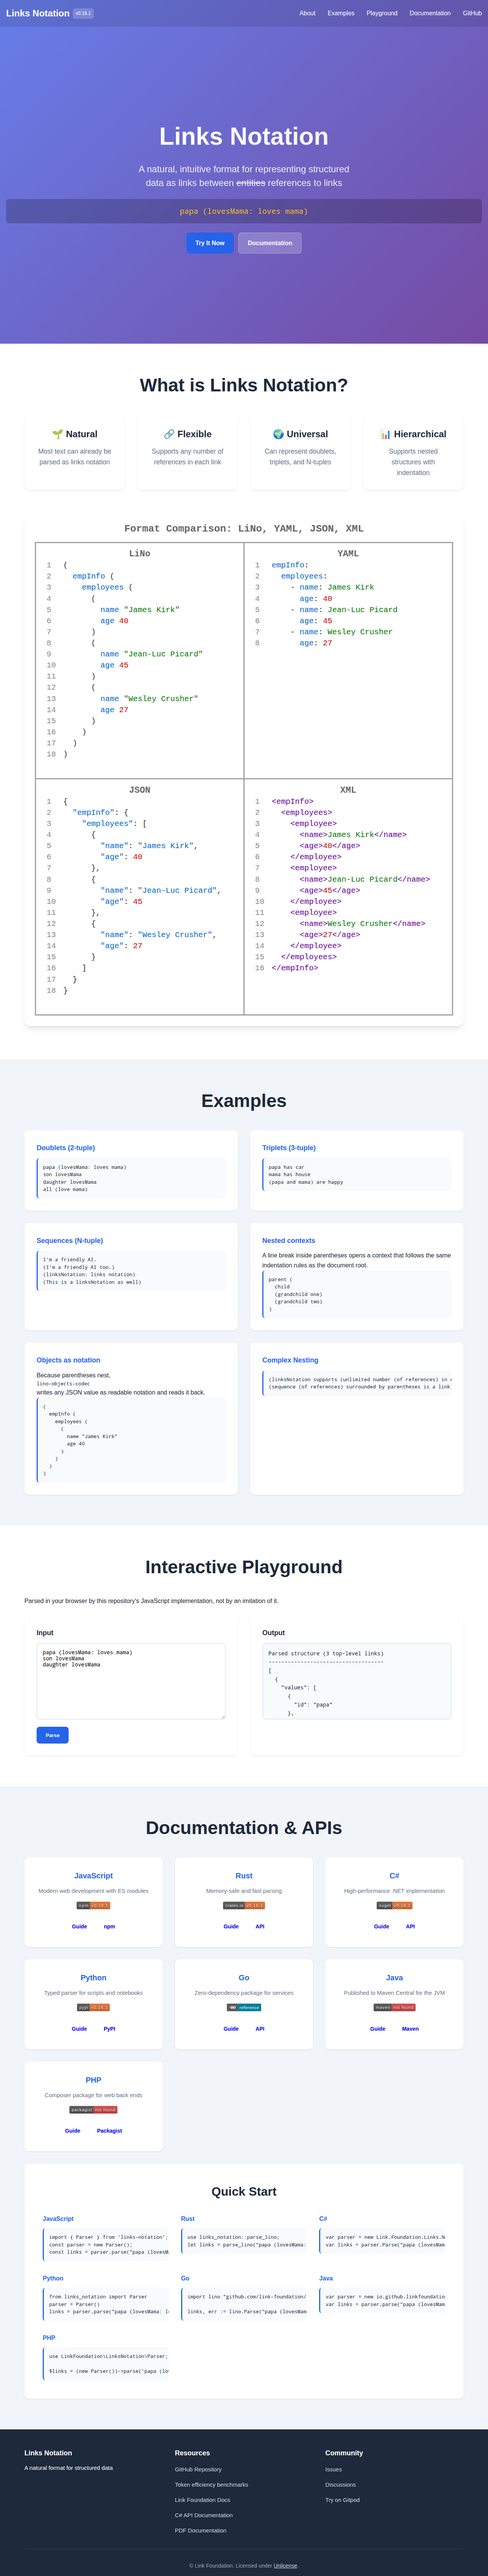
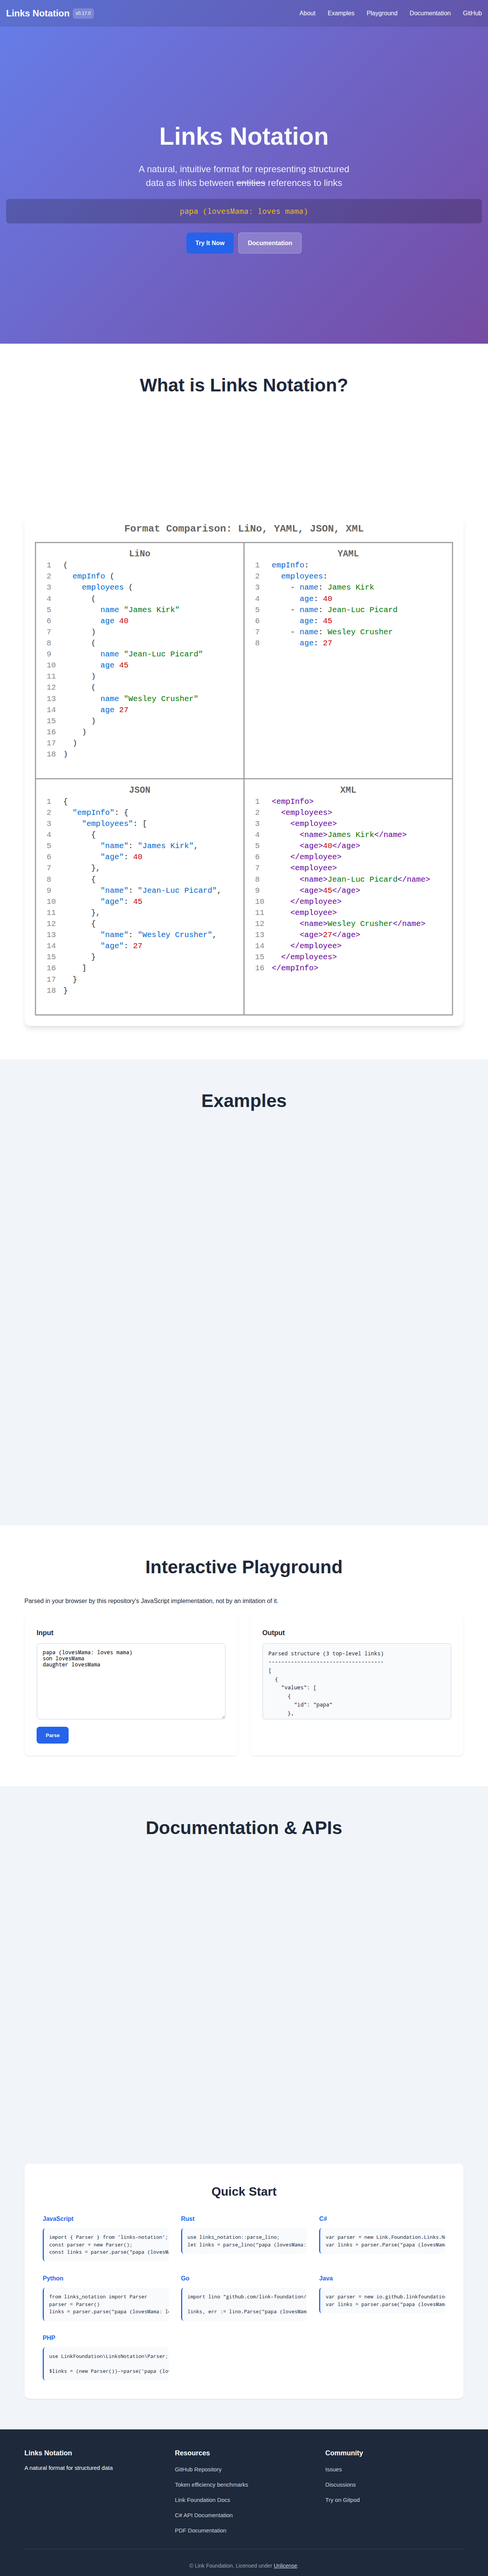
Take the version literal off the website
The header carried a hand-typed `v0.16.1`, while script.js already writes the
same span from `__LIBRARY_VERSION__`, which vite.config.js reads out of
js/package.json at build time. Two sources for one number is how the page came
to advertise v0.6.0 for ten minor releases, so the literal is gone and the span
starts empty.

Screenshot regenerated from the built site to show the header now reading
v0.17.0.

diff --git a/docs/website/index.html b/docs/website/index.html
@@ -19,7 +19,11 @@
         <nav class="nav">
             <div class="nav-brand">
                 <h1>Links Notation</h1>
-                <span class="version" id="version">v0.16.1</span>
+                <!-- Filled in by script.js from the library's own package.json at build
+                     time. Left empty on purpose: a literal here is a second place the
+                     version can be wrong, which is how the page came to advertise v0.6.0
+                     for ten minor releases. -->
+                <span class="version" id="version"></span>
             </div>
             <button class="nav-toggle" aria-label="Toggle navigation menu" aria-expanded="false">
                 <span class="nav-toggle-icon">☰</span>
